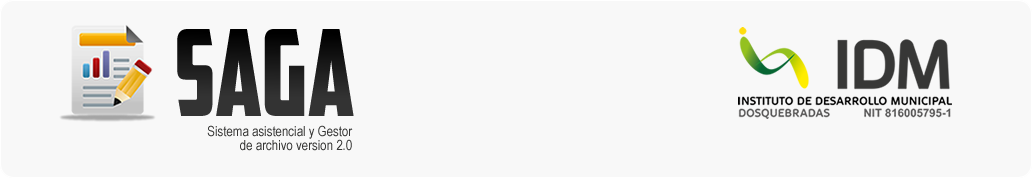
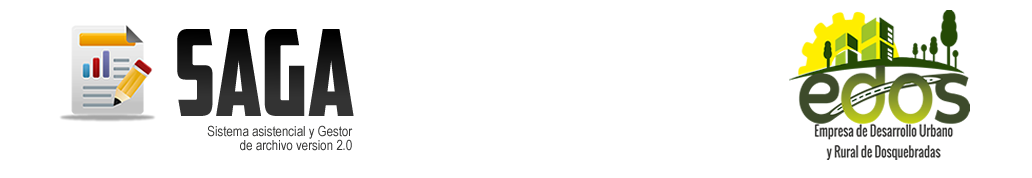
Actualiza a EDOS

Changed region(s): [[0.7132, 0.0562, 0.9612, 0.7865], [0.7752, 0.8146, 0.9302, 0.8989]]

diff --git a/parametros/variables.php b/parametros/variables.php
@@ -23,7 +23,7 @@ $verde=0;
 
 $banner_cabezera = $ruta_principal."/imagenes/header.png"; //Imagen de Cabezera
 
-$licenciado = "IDM Dosquebradas"; //Empresa licenciada
+$licenciado = "EDOS Dosquebradas"; //Empresa licenciada
 
 $logos_licenciado = "<table width='220' border='0'> 
     <tr>
@@ -36,9 +36,9 @@ $logos_licenciado = "<table width='220' border='0'>
 $nombre_corto = "SAGA"; //Nombre Corto del Aplicativo
 $nombre_largo = "Sistema Asistencial y Gestion de Archivo";  //Nombre Largo del Aplicativo 
 $version = "2.0"; //Version del Aplicativo
-$copyright1 =  "Instituto de Desarrollo Municipal de Dosquebradas 2020 - 2023"; //Copyright Fecha
+$copyright1 =  "EDOS Dosquebradas 2020 - 2023"; //Copyright Fecha
 $copyright2 = "Desarrollador por Genus Group SAS<BR>"; //Copyright Fabricante
-$logo_fabricante = "$ruta_principal/imagenes/logo0.png"; //Copyright Logo
+$logo_fabricante = $ruta_principal."/imagenes/Logo0.png"; //Copyright Logo
 
 $Pie= "<HR><CENTER>
 $logos_licenciado <HR>
